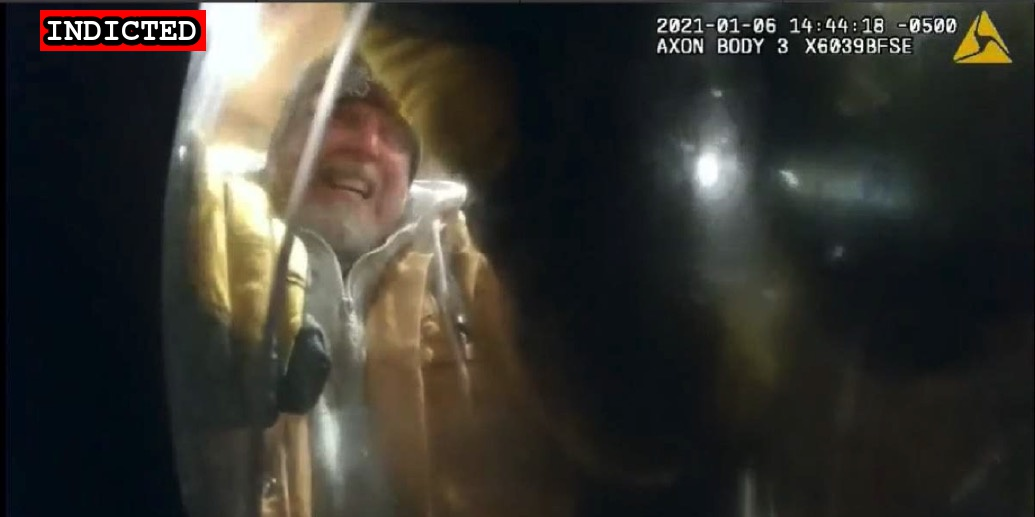
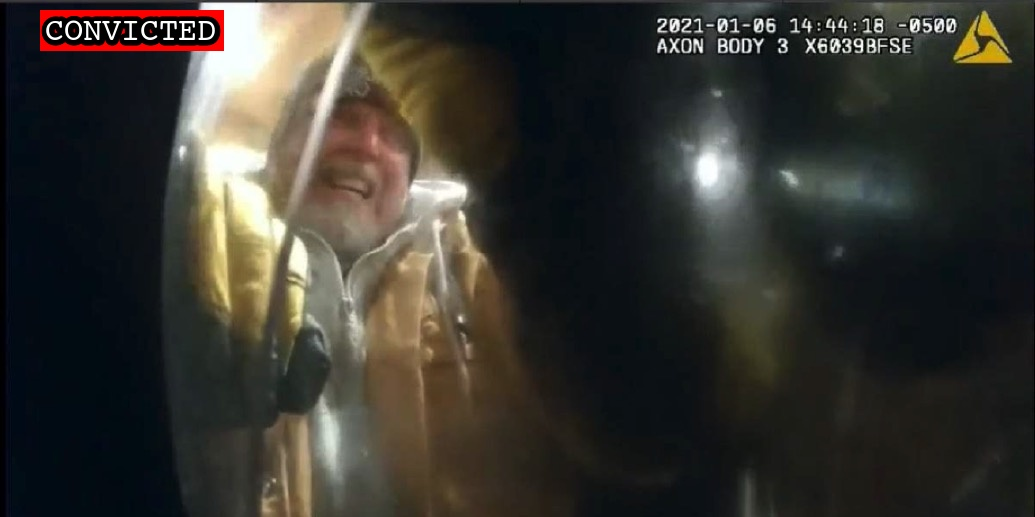
Latest import

Changed region(s): [[0.0309, 0.0, 0.2164, 0.1238]]

diff --git a/docs/_suspects/philip-young.md b/docs/_suspects/philip-young.md
@@ -41,40 +41,39 @@ caseName: USA v. YOUNG
 judge: Dabney L. Friedrich
 videos:
 charges:
-  - code: 18 USC § 111(a)(1)
-    title: Assaulting, resisting, or impeding certain officers or employees
-    url: https://www.law.cornell.edu/uscode/text/18/111
-    felony: true
-  - code: 18 USC § 231(a)(3)
-    title: Obstruction of Law Enforcement During Civil Disorder
-    url: https://www.law.cornell.edu/uscode/text/18/231
-    felony: true
-  - code: 18 USC § 1752(a)(1)
-    title: Entering a restricted building or grounds
-    url: https://www.law.cornell.edu/uscode/text/18/1752
-    felony: false
-  - code: 18 USC § 1752(a)(2)
-    title: Disorderly and disruptive conduct in a restricted building or grounds
-    url: https://www.law.cornell.edu/uscode/text/18/1752
-    felony: false
-  - code: 18 USC § 1752(a)(4), (b)(1)(A)
-    title: Entering a restricted building or grounds with a dangerous or deadly weapon
-    url: https://www.law.cornell.edu/uscode/text/18/1752
-    felony: true
-  - code: 40 USC § 5104(e)(2)(D)
-    title: Disorderly Conduct in a Capitol Building
-    url: https://www.law.cornell.edu/uscode/text/40/5104
-    felony: false
-  - code: 40 USC § 5104(e)(2)(G)
-    title: Parading, demonstrating or picketing in a Capitol building
-    url: https://www.law.cornell.edu/uscode/text/40/5104
-    felony: false
+- code: 18 USC § 111(a)(1)
+  title: Assaulting, resisting, or impeding certain officers or employees
+  url: https://www.law.cornell.edu/uscode/text/18/111
+  felony: true
+- code: 18 USC § 231(a)(3)
+  title: Obstruction of Law Enforcement During Civil Disorder
+  url: https://www.law.cornell.edu/uscode/text/18/231
+  felony: true
+- code: 18 USC § 1752(a)(1)
+  title: Entering a restricted building or grounds
+  url: https://www.law.cornell.edu/uscode/text/18/1752
+  felony: false
+- code: 18 USC § 1752(a)(2)
+  title: Disorderly and disruptive conduct in a restricted building or grounds
+  url: https://www.law.cornell.edu/uscode/text/18/1752
+  felony: false
+- code: 18 USC § 1752(a)(4), (b)(1)(A)
+  title: Entering a restricted building or grounds with a dangerous or deadly weapon
+  url: https://www.law.cornell.edu/uscode/text/18/1752
+  felony: true
+- code: 40 USC § 5104(e)(2)(D)
+  title: Disorderly Conduct in a Capitol Building
+  url: https://www.law.cornell.edu/uscode/text/40/5104
+  felony: false
+- code: 40 USC § 5104(e)(2)(G)
+  title: Parading, demonstrating or picketing in a Capitol building
+  url: https://www.law.cornell.edu/uscode/text/40/5104
+  felony: false
 sentence:
   - 8 months incarceration
   - 3 years probation
   - $2000 restitution
 ---
-
 - [News Report](https://www.courierpostonline.com/story/news/2021/08/21/philip-young-sewell-capital-riot-insurrection-suspect/8229587002/)
 - [Statement of Facts](https://www.justice.gov/usao-dc/case-multi-defendant/file/1428506/download)
 - [Indictment](https://www.justice.gov/usao-dc/case-multi-defendant/file/1549091/download)

diff --git a/docs/_suspects/william-isaacs.md b/docs/_suspects/william-isaacs.md
@@ -41,37 +41,36 @@ caseName: USA v. ISAACS
 judge: Amit P. Mehta
 videos:
 charges:
-  - code: 18 USC § 1512(k)
-    title: Conspiracy to Obstruct of an Official Proceeding
-    url: https://www.law.cornell.edu/uscode/text/18/1512
-    felony: true
-  - code: 18 USC § 1512(c)(2),2
-    title: Obstruction of an Official Proceeding (Aiding and Abetting)
-    url: https://www.law.cornell.edu/uscode/text/18/1512
-    felony: true
-  - code: 18 USC § 372
-    title: Conspiracy to Prevent an Officer from Discharging any Duties
-    url: https://www.law.cornell.edu/uscode/text/18/372
-    felony: true
-  - code: 18 USC § 1361, 2
-    title: Destruction of Government Property (Aiding and Abetting)
-    url: https://www.law.cornell.edu/uscode/text/18/1361
-    felony: true
-  - code: 18 USC § 1752(a)(1)
-    title: Entering a restricted building or grounds
-    url: https://www.law.cornell.edu/uscode/text/18/1752
-    felony: false
-  - code: 18 USC § 231(a)(3),2
-    title: Obstruction of Law Enforcement During Civil Disorder (Aiding and Abetting)
-    url: https://www.law.cornell.edu/uscode/text/18/231
-    felony: true
-  - code: 18 USC § 231(a)(3),2
-    title: Obstruction of Law Enforcement During Civil Disorder (Aiding and Abetting)
-    url: https://www.law.cornell.edu/uscode/text/18/231
-    felony: true
+- code: 18 USC § 1512(k)
+  title: Conspiracy to Obstruct of an Official Proceeding
+  url: https://www.law.cornell.edu/uscode/text/18/1512
+  felony: true
+- code: 18 USC § 1512(c)(2),2
+  title: Obstruction of an Official Proceeding (Aiding and Abetting)
+  url: https://www.law.cornell.edu/uscode/text/18/1512
+  felony: true
+- code: 18 USC § 372
+  title: Conspiracy to Prevent an Officer from Discharging any Duties
+  url: https://www.law.cornell.edu/uscode/text/18/372
+  felony: true
+- code: 18 USC § 1361, 2
+  title: Destruction of Government Property (Aiding and Abetting)
+  url: https://www.law.cornell.edu/uscode/text/18/1361
+  felony: true
+- code: 18 USC § 1752(a)(1)
+  title: Entering a restricted building or grounds
+  url: https://www.law.cornell.edu/uscode/text/18/1752
+  felony: false
+- code: 18 USC § 231(a)(3),2
+  title: Obstruction of Law Enforcement During Civil Disorder (Aiding and Abetting)
+  url: https://www.law.cornell.edu/uscode/text/18/231
+  felony: true
+- code: 18 USC § 231(a)(3),2
+  title: Obstruction of Law Enforcement During Civil Disorder (Aiding and Abetting)
+  url: https://www.law.cornell.edu/uscode/text/18/231
+  felony: true
 sentence:
 ---
-
 - [News Report](https://www.clickorlando.com/news/local/2021/05/31/grand-jury-indicts-kissimmee-man-for-alleged-role-in-capitol-riot/)
 - [Indictment](https://www.justice.gov/usao-dc/case-multi-defendant/file/1515141/download)
 - [DOJ Press Release (Conviction)](https://www.justice.gov/opa/pr/four-oath-keepers-found-guilty-seditious-conspiracy-related-us-capitol-breach)

diff --git a/docs/_suspects/laura-steele.md b/docs/_suspects/laura-steele.md
@@ -41,37 +41,36 @@ caseName: USA v. STEELE
 judge: Amit P. Mehta
 videos:
 charges:
-  - code: 18 USC § 1512(k)
-    title: Conspiracy to Obstruct of an Official Proceeding
-    url: https://www.law.cornell.edu/uscode/text/18/1512
-    felony: true
-  - code: 18 USC § 1512(c)(2),2
-    title: Obstruction of an Official Proceeding (Aiding and Abetting)
-    url: https://www.law.cornell.edu/uscode/text/18/1512
-    felony: true
-  - code: 18 USC § 372
-    title: Conspiracy to Prevent an Officer from Discharging any Duties
-    url: https://www.law.cornell.edu/uscode/text/18/372
-    felony: true
-  - code: 18 USC § 1361, 2
-    title: Destruction of Government Property (Aiding and Abetting)
-    url: https://www.law.cornell.edu/uscode/text/18/1361
-    felony: true
-  - code: 18 USC § 1752(a)(1)
-    title: Entering a restricted building or grounds
-    url: https://www.law.cornell.edu/uscode/text/18/1752
-    felony: false
-  - code: 18 USC § 231(a)(3),2
-    title: Obstruction of Law Enforcement During Civil Disorder (Aiding and Abetting)
-    url: https://www.law.cornell.edu/uscode/text/18/231
-    felony: true
-  - code: 18 USC § 1512(c)(1),2
-    title: Tampering with Documents or Proceedings (Aiding and Abetting)
-    url: https://www.law.cornell.edu/uscode/text/18/1512
-    felony: true
+- code: 18 USC § 1512(k)
+  title: Conspiracy to Obstruct of an Official Proceeding
+  url: https://www.law.cornell.edu/uscode/text/18/1512
+  felony: true
+- code: 18 USC § 1512(c)(2),2
+  title: Obstruction of an Official Proceeding (Aiding and Abetting)
+  url: https://www.law.cornell.edu/uscode/text/18/1512
+  felony: true
+- code: 18 USC § 372
+  title: Conspiracy to Prevent an Officer from Discharging any Duties
+  url: https://www.law.cornell.edu/uscode/text/18/372
+  felony: true
+- code: 18 USC § 1361, 2
+  title: Destruction of Government Property (Aiding and Abetting)
+  url: https://www.law.cornell.edu/uscode/text/18/1361
+  felony: true
+- code: 18 USC § 1752(a)(1)
+  title: Entering a restricted building or grounds
+  url: https://www.law.cornell.edu/uscode/text/18/1752
+  felony: false
+- code: 18 USC § 231(a)(3),2
+  title: Obstruction of Law Enforcement During Civil Disorder (Aiding and Abetting)
+  url: https://www.law.cornell.edu/uscode/text/18/231
+  felony: true
+- code: 18 USC § 1512(c)(1),2
+  title: Tampering with Documents or Proceedings (Aiding and Abetting)
+  url: https://www.law.cornell.edu/uscode/text/18/1512
+  felony: true
 sentence:
 ---
-
 - [News Report](https://www.cbsnews.com/news/capitol-riot-oath-keepers-indicted-conspiracy/)
 - [Complaint](https://www.justice.gov/usao-dc/case-multi-defendant/file/1369076/download)
 - [Indictment](https://www.justice.gov/usao-dc/case-multi-defendant/file/1515131/download)

diff --git a/docs/_suspects/connie-meggs.md b/docs/_suspects/connie-meggs.md
@@ -41,29 +41,28 @@ caseName: USA v. MEGGS
 judge: Amit P. Mehta
 videos:
 charges:
-  - code: 18 USC § 1512(k)
-    title: Conspiracy to Obstruct of an Official Proceeding
-    url: https://www.law.cornell.edu/uscode/text/18/1512
-    felony: true
-  - code: 18 USC § 1512(c)(2),2
-    title: Obstruction of an Official Proceeding (Aiding and Abetting)
-    url: https://www.law.cornell.edu/uscode/text/18/1512
-    felony: true
-  - code: 18 USC § 372
-    title: Conspiracy to Prevent an Officer from Discharging any Duties
-    url: https://www.law.cornell.edu/uscode/text/18/372
-    felony: true
-  - code: 18 USC § 1361, 2
-    title: Destruction of Government Property (Aiding and Abetting)
-    url: https://www.law.cornell.edu/uscode/text/18/1361
-    felony: true
-  - code: 18 USC § 1752(a)(1)
-    title: Entering a restricted building or grounds
-    url: https://www.law.cornell.edu/uscode/text/18/1752
-    felony: false
+- code: 18 USC § 1512(k)
+  title: Conspiracy to Obstruct of an Official Proceeding
+  url: https://www.law.cornell.edu/uscode/text/18/1512
+  felony: true
+- code: 18 USC § 1512(c)(2),2
+  title: Obstruction of an Official Proceeding (Aiding and Abetting)
+  url: https://www.law.cornell.edu/uscode/text/18/1512
+  felony: true
+- code: 18 USC § 372
+  title: Conspiracy to Prevent an Officer from Discharging any Duties
+  url: https://www.law.cornell.edu/uscode/text/18/372
+  felony: true
+- code: 18 USC § 1361, 2
+  title: Destruction of Government Property (Aiding and Abetting)
+  url: https://www.law.cornell.edu/uscode/text/18/1361
+  felony: true
+- code: 18 USC § 1752(a)(1)
+  title: Entering a restricted building or grounds
+  url: https://www.law.cornell.edu/uscode/text/18/1752
+  felony: false
 sentence:
 ---
-
 - [News Report](https://www.cbsnews.com/news/capitol-riot-oath-keepers-indicted-conspiracy/)
 - [Complaint](https://www.justice.gov/usao-dc/case-multi-defendant/file/1369076/download)
 - [Indictment](https://www.justice.gov/usao-dc/case-multi-defendant/file/1515136/download)

diff --git a/docs/_suspects/kevin-galetto.md b/docs/_suspects/kevin-galetto.md
@@ -4,11 +4,11 @@ lastName: Galetto
 hashtag: OuttaHereGreyHood
 aka:
 residence: California
-status: Indicted
+status: Convicted
 date: 2021-04-23
 charged: 2021-04-23
 indicted: 2021-08-13
-convicted:
+convicted: 2023-03-20
 acquitted:
 sentenced:
 dismissed:
@@ -32,7 +32,7 @@ raid:
 perpwalk:
 quote:
 title: Kevin Galetto arrested on April 23, 2021
-description: Click for latest case details. Suspects innocent until proven guilty.
+description: Convicted on March 20, 2023. Click for latest case details.
 author: seditiontrack
 layout: suspect
 published: true
@@ -41,9 +41,19 @@ caseName: USA v. GALETTO
 judge: Colleen Kollar-Kotelly
 videos:
 charges:
+  - code: 18 USC § 231(a)(3)
+    title: Obstruction of Law Enforcement During Civil Disorder
+    url: https://www.law.cornell.edu/uscode/text/18/231
+    felony: true
+  - code: 18 USC § 111(a)(1)
+    title: Assaulting, resisting, or impeding certain officers or employees
+    url: https://www.law.cornell.edu/uscode/text/18/111
+    felony: true
 sentence:
 ---
+
 - [News Report](https://www.msn.com/en-us/news/us/61-year-old-westminster-man-arrested-in-connection-with-jan-6-capitol-riots/ar-BB1fZg2s)
 - [Complaint](https://www.justice.gov/usao-dc/case-multi-defendant/file/1389316/download)
 - [Statement of Facts](https://www.justice.gov/usao-dc/case-multi-defendant/file/1389321/download)
 - [Indictment](https://www.justice.gov/usao-dc/case-multi-defendant/file/1459351/download)
+- [Statement of Offense](https://storage.courtlistener.com/recap/gov.uscourts.dcd.234539/gov.uscourts.dcd.234539.56.0.pdf)

diff --git a/docs/_suspects/neil-ashcraft.md b/docs/_suspects/neil-ashcraft.md
@@ -41,20 +41,19 @@ caseName: USA v. ASHCRAFT
 judge: Colleen Kollar-Kotelly
 videos:
 charges:
-  - code: 18 USC § 641
-    title: Theft of Government Property
-    url: https://www.law.cornell.edu/uscode/text/18/641
-    felony: false
-  - code: 18 USC § 1752(a)(1)
-    title: Entering a restricted building or grounds
-    url: https://www.law.cornell.edu/uscode/text/18/1752
-    felony: false
+- code: 18 USC § 641
+  title: Theft of Government Property
+  url: https://www.law.cornell.edu/uscode/text/18/641
+  felony: false
+- code: 18 USC § 1752(a)(1)
+  title: Entering a restricted building or grounds
+  url: https://www.law.cornell.edu/uscode/text/18/1752
+  felony: false
 sentence:
   - 80 days incarceration
   - 1 year probation
   - $0 restitution
 ---
-
 - [News Report](https://bipartisanreport.com/2022/09/05/flagpole-wielding-jan-6-rioter-tracked-down-and-caught-by-feds/)
 - [Information](https://www.justice.gov/usao-dc/case-multi-defendant/file/1536716/download)
 - [Plea Agreement](https://www.justice.gov/usao-dc/case-multi-defendant/file/1536721/download)

diff --git a/docs/_suspects/aiden-bilyard.md b/docs/_suspects/aiden-bilyard.md
@@ -41,16 +41,15 @@ caseName: USA v. BILYARD
 judge: Reggie B. Walton
 videos:
 charges:
-  - code: 18 USC § 111(a)(1) and (b)
-    title: Assaulting, resisting, or impeding certain officers or employees (using a deadly or dangerous weapon)
-    url: https://www.law.cornell.edu/uscode/text/18/111
-    felony: true
+- code: 18 USC § 111(a)(1) and (b)
+  title: Assaulting, resisting, or impeding certain officers or employees (using a deadly or dangerous weapon)
+  url: https://www.law.cornell.edu/uscode/text/18/111
+  felony: true
 sentence:
   - 40 months incarceration
   - 3 years probation
   - $3500 restitution
 ---
-
 - [News Report](https://www.huffpost.com/entry/aiden-bilyard-capitol-riot-air-force_n_619d3479e4b044a1cc0dc38c)
 - [Statement of Facts](https://www.justice.gov/usao-dc/case-multi-defendant/file/1459026/download)
 - [Indictment](https://www.justice.gov/usao-dc/case-multi-defendant/file/1545681/download)

diff --git a/docs/_suspects/samuel-rodriguez.md b/docs/_suspects/samuel-rodriguez.md
@@ -41,15 +41,14 @@ caseName: USA v. RODRIGUEZ
 judge: Jia M. Cobb
 videos:
 charges:
-  - code: 40 USC § 5104(e)(2)(G)
-    title: Parading, demonstrating or picketing in a Capitol building
-    url: https://www.law.cornell.edu/uscode/text/40/5104
-    felony: false
+- code: 40 USC § 5104(e)(2)(G)
+  title: Parading, demonstrating or picketing in a Capitol building
+  url: https://www.law.cornell.edu/uscode/text/40/5104
+  felony: false
 sentence:
   - 1 year probation
   - $500 restitution
 ---
-
 - [News Report](https://www.mcall.com/news/breaking/mc-nws-lehigh-valley-man-arrest-jan-6-riot-20220724-3m2q2nkx4rgxne3ozyljiec4ra-story.html)
 - [Complaint](https://www.justice.gov/usao-dc/case-multi-defendant/file/1521511/download)
 - [Statement of Facts](https://www.justice.gov/usao-dc/case-multi-defendant/file/1521516/download)

diff --git a/docs/_suspects/stacy-bond.md b/docs/_suspects/stacy-bond.md
@@ -41,15 +41,14 @@ caseName: USA v. BOND
 judge: Jia M. Cobb
 videos:
 charges:
-  - code: 40 USC § 5104(e)(2)(G)
-    title: Parading, demonstrating or picketing in a Capitol building
-    url: https://www.law.cornell.edu/uscode/text/40/5104
-    felony: false
+- code: 40 USC § 5104(e)(2)(G)
+  title: Parading, demonstrating or picketing in a Capitol building
+  url: https://www.law.cornell.edu/uscode/text/40/5104
+  felony: false
 sentence:
   - 18 months probation
   - $500 restitution
 ---
-
 - [Information](https://www.justice.gov/usao-dc/case-multi-defendant/file/1508906/download)
 - [Complaint](https://www.justice.gov/usao-dc/case-multi-defendant/file/1509891/download)
 - [Statement of Facts](https://www.justice.gov/usao-dc/case-multi-defendant/file/1509896/download)

diff --git a/docs/_suspects/joshua-lollar.md b/docs/_suspects/joshua-lollar.md
@@ -43,7 +43,6 @@ videos:
 charges:
 sentence:
 ---
-
 - [News Report](https://abc13.com/spring-man-capitol-riot-josh-lollar-joshua-charged-us-protest/9689137/)
 - [Complaint](https://www.justice.gov/opa/page/file/1355466/download)
 - [Statement of Facts](https://www.justice.gov/opa/page/file/1355471/download)
